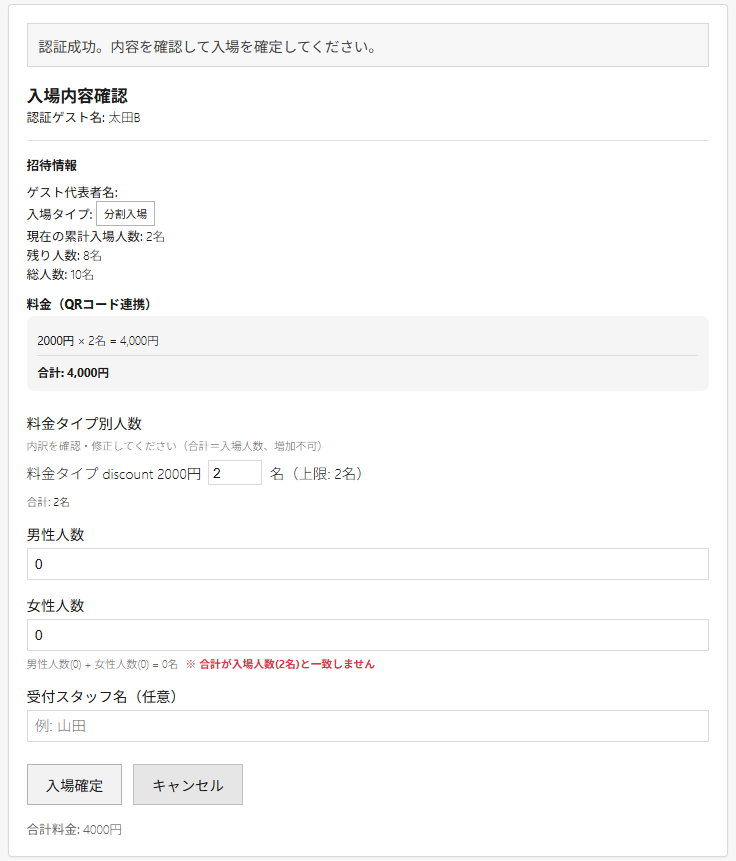
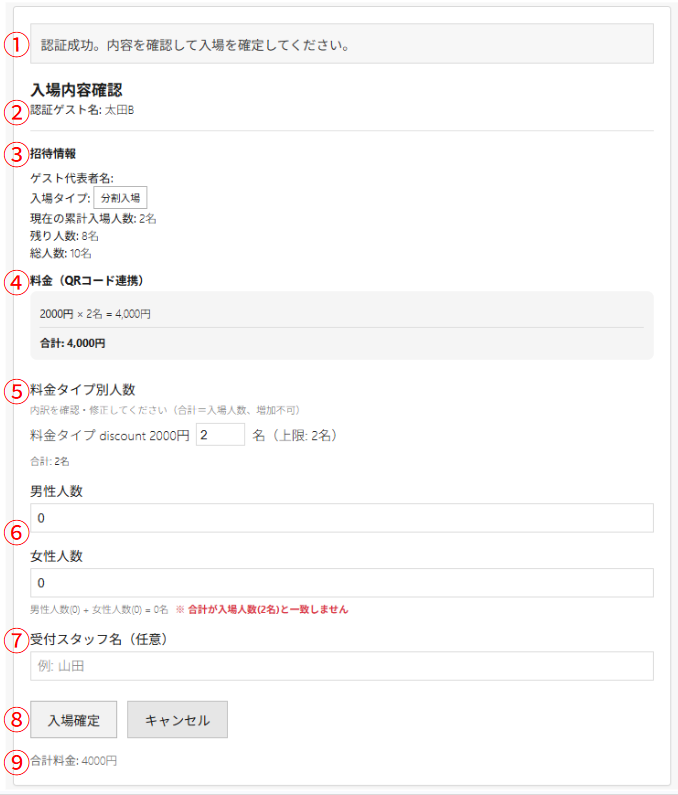
ゲスト・エントランスにスクショ追加＋ナンバリング

Changed region(s): [[0.0, 0.483, 1.0, 1.0], [0.0, 0.0302, 0.4956, 0.4528]]

diff --git a/使用マニュアル_ゲスト画面.md b/使用マニュアル_ゲスト画面.md
@@ -18,6 +18,7 @@ flowchart TD
   Invitation --> NameCheck[名前確認]
   NameCheck --> Entry[入場選択・QR表示]
 ```
+## 操作手順
 
 - **ログインして開く**: 事前にアプリまたはサイトにログインした状態で招待URLを開く。名前確認後アカウントに招待が紐づけられます(未実装)
 - **ログインせずに開く**: URLだけで招待画面へ直行し、名前確認から進みます。
@@ -41,13 +42,52 @@ flowchart TD
   Choice -->|一括| One[代表1人のQR表示]
   Choice -->|分割・混合| Multi[代表者を選択]
   Multi --> Assign[料金タイプごとの割当を確認]
-  Assign --> QR[該当代表のQR表示]
+  Assign --> QR[該当代表のURL表示]
   One --> QR
-  QR --> Show[QR表示・URLコピー]
+  QR --> Show[QR表示して入場 or URLコピーして分割入場者へ渡す]
   Show --> Reload[入場状況の確認]
   Reload --> End[完了]
 ```
 
+## 操作手順
+
+### 招待リンクを開く
+
+1. DJから受け取った招待URL（形式: `http://womb.minami-umemoto.jp/guest/{qrToken}`）をタップまたはクリック
+2. 招待画面が開き、**名前確認**の入力が表示されます（名前確認を通過するまで招待情報タブは見えません）
+
+### 名前を確認する
+
+1. DJから伝えられた名前（招待時に設定された名前）を入力
+2. 一致すると「入場選択」タブに進めます
+![画面の説明](images/nameChack.png)
+![画面の説明](images/nameChack2.png)
+
+### 入場設定する（代表者を選ぶ）
+
+1. 「入場選択」タブを開く
+2. 「残り〇名分を追加割り当て」ボタンを押下
+3-1. 自分(ゲスト代表者)の割当てを行う場合=分割代表者フォームでゲスト代表者を選択
+3-2. 自分と一緒に入場しない友人等に招待を分配する場合=分割代表者フォームで分割代表者名を入力
+4. 料金タイプごとの割当（フリー〇名、有料〇名など）を入力
+5. 「追加」ボタンで設定
+
+![ゲスト画面](images/guest1.png)
+![ゲスト画面](images/guest2.png)
+
+### QR表示・URLコピー
+
+1. 「QR発行」ボタン押下でQRタブが有効になります
+2. 「QR画面」タブで、自分の入場用QRコードを表示
+
+![ゲスト画面](images/guest3.png)
+
+### 入場状況の確認（リロードで見えること）
+
+1. 入場後は、ステータスが「完了」になりQRコードタブはグレーアウトします
+- ゲスト画面でリロードして確認できるのは**入場状況**のみです（入場済人数・残り人数などが最新になります）。
+
+![ゲスト画面](images/guest4.png)
 ---
 
 ## 子の入場フロー
@@ -70,24 +110,14 @@ flowchart TD
   Entry --> End[完了]
 ```
 
-**確認（実装どおり）**
+## 操作手順
 
-1. 子が開くURLは**親の招待URL（/guest/:token）ではなく、子専用URL（/guest/qr/:qrToken）**です。親の「入場選択」タブで子の「URLコピー」から取得したリンクを共有します。
-2. 子用URLを開くと、**名前確認**の入力欄だけが表示されます（招待情報・入場選択のタブは出ません）。
-3. DJ（または親）が設定した**代表者名**を入力し「確認」で一致すると、**QRコード画面**に切り替わります。
-4. 表示されたQRコードをエントランスで読み取ってもらい、入場します。
-5. 入場済みの子が同じURLを開くと「入場済みです」と表示され、QRは使えません。
-![画面の説明](images/nameChack.png)
+1. DJ（または親）が設定した**代表者名**を入力し「確認」で一致すると、**QRコード画面**に切り替わります。
+2. 表示されたQRコードをエントランスで読み取ってもらい、入場します。
+3. 入場済みの子が同じURLを開くと「入場済みです」と表示され、QRは使えません。
 ---
 
-## ログイン・アクセス
-
-- **招待URL**: DJから受け取ったURLをブラウザで開きます。
-- スマートフォンで開く場合は、同じURLをそのまま開いてください。
-
----
-
-## 画面の見方
+## 画面項目の説明
 
 ゲスト画面では **まず名前確認** を通過すると、以降のタブが使えるようになります。
 
@@ -134,43 +164,6 @@ flowchart TD
    8. 「QRコードデータをコピー」ボタン
 
 ![画面の説明](images/GestPassQR.png)
-
----
-
-## よくある操作
-
-### 招待リンクを開く
-
-1. DJから受け取った招待URL（例: http://womb.minami-umemoto.jp/guest/xxxxx）をタップまたはクリック
-2. 招待画面が開き、**名前確認**の入力が表示されます（名前確認を通過するまで招待情報タブは見えません）
-
-### 名前を確認する
-
-1. 「名前確認」タブを開く
-2. DJから伝えられた名前（招待時に設定された名前）を入力
-3. 一致すると「入場選択」タブに進めます
-
-### 一括招待で入場する（1人または同伴者として）
-
-1. 名前確認後、「入場選択」タブで一括の案内に従う
-2. 表示されるQRコードをエントランスで提示するか、入場用URLをコピーして使用
-
-### 分割・混合料金で入場する（代表者を選ぶ）
-
-1. 名前確認後、「入場選択」タブを開く
-2. 自分が該当する「代表者」を選択（例: 代表A・代表B・代表C）
-3. 料金タイプごとの割当（フリー〇名、有料〇名など）を確認
-4. 該当する代表者を選ぶと、その代表者用のQRが表示されます
-5. 表示されたQRをエントランスで提示するか、URLをコピーして使用
-
-### QR表示・URLコピー
-
-1. 「QR画面」タブで、自分の入場用QRコードを表示
-2. 必要に応じて「URLをコピー」で入場用URLをクリップボードにコピー（QRが使えない場合の代替）
-
-### 入場状況の確認（リロードで見えること）
-
-- DJ側では招待発行後に招待内容・割当の更新は行いません。そのため、ゲスト画面でリロードして確認できるのは**入場状況**のみです（入場済人数・残り人数などが最新になります）。招待情報や割当の変更は発生しない想定です。
 
 ---
 

diff --git a/README.md b/README.md
@@ -15,6 +15,17 @@
 
 ---
 
+## マニュアルの作り方方針
+
+各マニュアルは、次の順で構成します。
+
+1. **画面の概要＋フロー** … 対象画面の役割と、操作の流れ（フロー図）を記載する。
+2. **操作手順** … 実際の操作を番号付きで手順として記載する。
+3. **画面項目の説明** … 画面上の項目・ラベル・ボタンなどの意味と内容を説明する。
+4. **用語・注意事項** … マニュアル内で使う用語の定義や、注意すべき点を記載する。
+
+---
+
 ## 共通事項
 
 ### アクセスURL

diff --git a/使用マニュアル_管理画面.md b/使用マニュアル_管理画面.md
@@ -32,7 +32,7 @@ flowchart TD
 
 ---
 
-## 画面の見方
+## 画面項目の説明
 
 1. **ヘッダー**: 「WOMB認証システム(開発デモ版)」、管理画面 / DJ画面 / ENTRANCE へのリンク、ログアウト等
 2. **ダッシュボード**: イベント一覧が表示されます。イベント名や日付を確認し、詳細を見たいイベントをクリックします
@@ -45,7 +45,7 @@ flowchart TD
 
 ---
 
-## よくある操作
+## 操作手順
 
 ### イベント一覧を確認する
 

diff --git a/使用マニュアル_DJ画面.md b/使用マニュアル_DJ画面.md
@@ -33,7 +33,7 @@ flowchart TD
 
 ---
 
-## 画面の見方
+## 画面項目の説明
 
 - **ヘッダー**: 管理画面 / DJ画面 / ENTRANCE へのリンク、ログアウト
 - **DJダッシュボード**: 自分が担当するイベント一覧が表示されます。イベントを選択すると、そのイベント向けの招待発行・確認ができます
@@ -95,7 +95,7 @@ flowchart TD
 
 ---
 
-## よくある操作
+## 操作手順
 
 ### 招待を発行する
 

diff --git a/使用マニュアル_エントランス画面.md b/使用マニュアル_エントランス画面.md
@@ -34,7 +34,7 @@ flowchart TD
 
 ---
 
-## 画面の見方
+## 画面項目の説明
 
 - **スキャン・入力画面（初期表示）**
   1. カメラ起動ボタン（カメラ停止ボタンはカメラ起動中に表示）
@@ -63,7 +63,7 @@ flowchart TD
 
 ---
 
-## よくある操作
+## 操作手順
 
 ### QRコードで認証する
 
